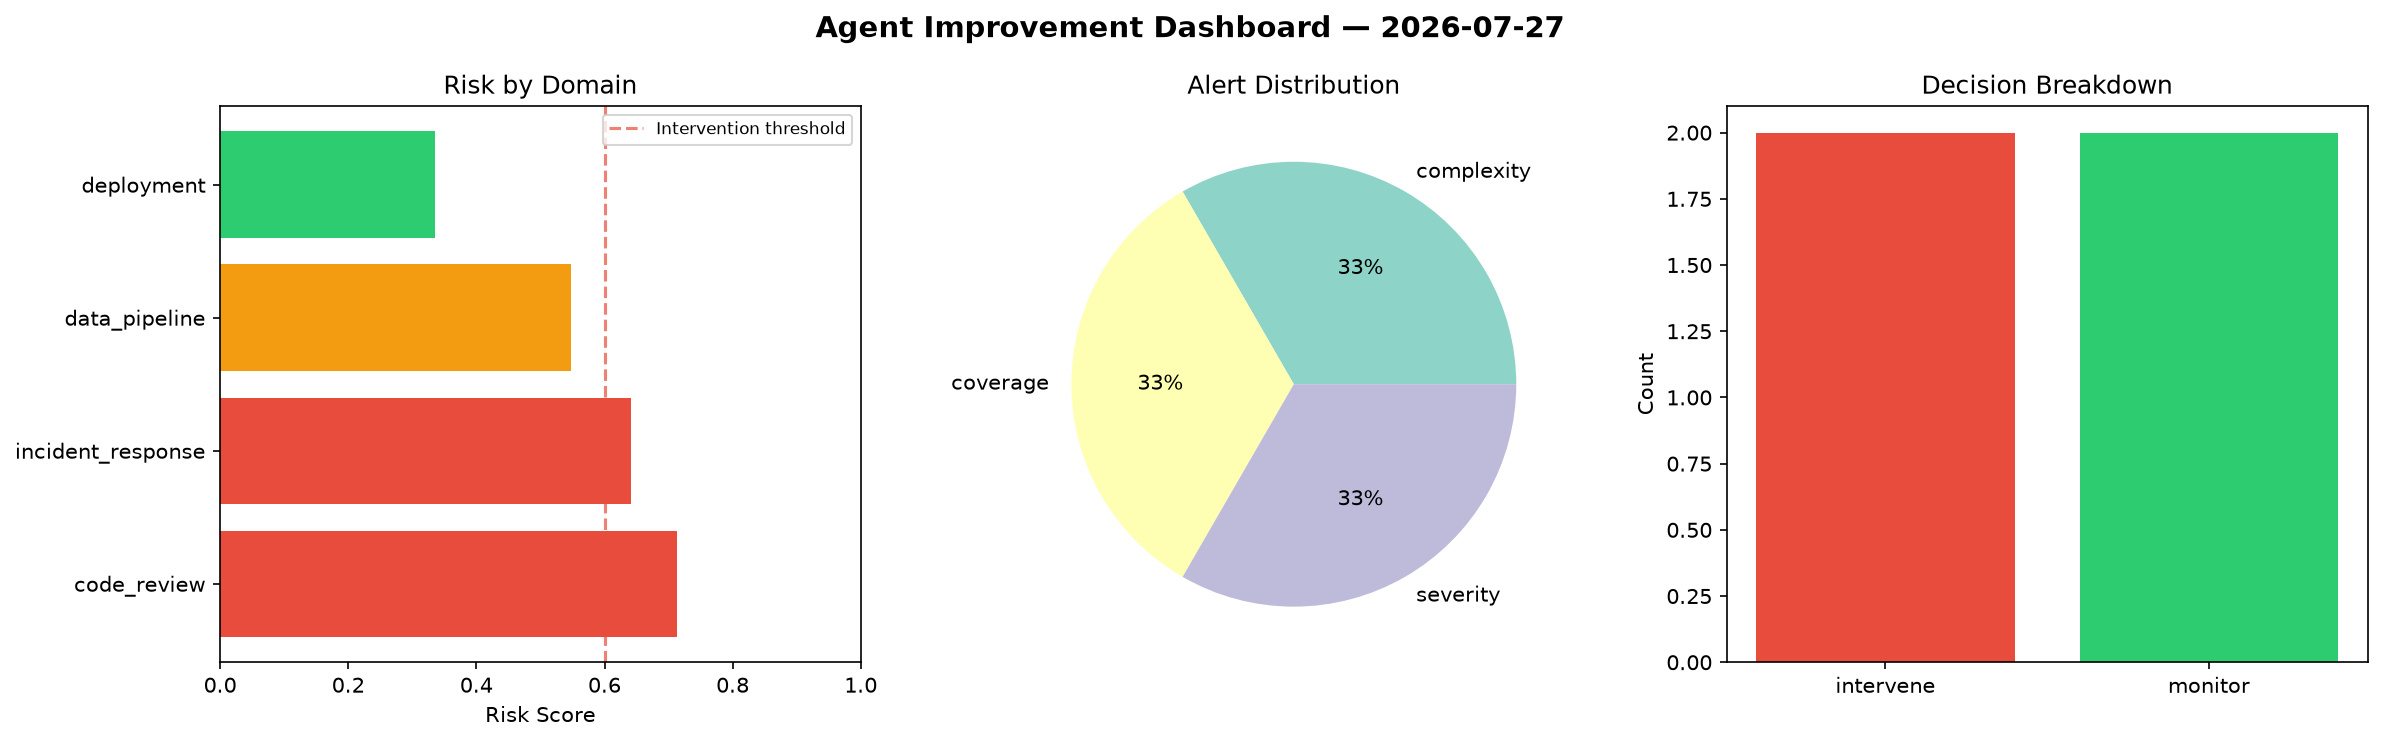
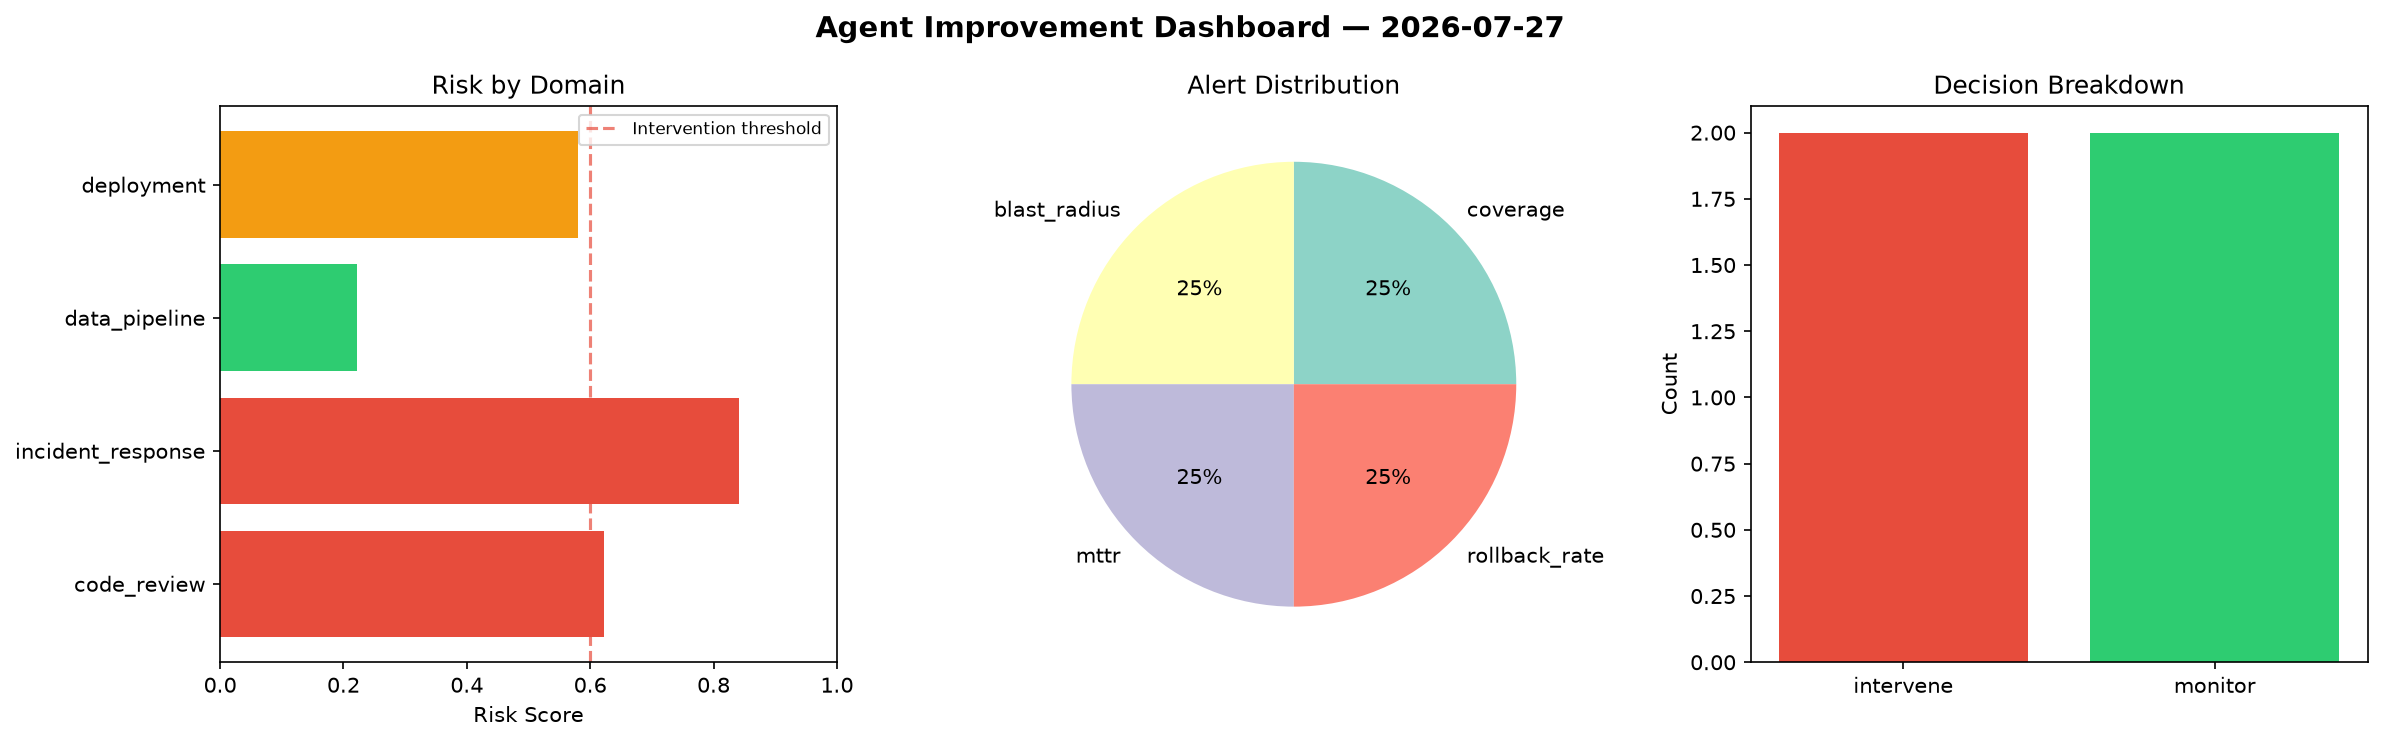
agent-improvement: daily cycle 2026-07-27T11:38

diff --git a/logs/2026-07-27.md b/logs/2026-07-27.md
@@ -1,6 +1,6 @@
 # Agent Improvement Report — 2026-07-27
 
-**Cycle ID:** `2cabf618` | **Avg Risk:** 0.5594 | **Interventions:** 2/4
+**Cycle ID:** `a64bd3b0` | **Avg Risk:** 0.5669 | **Interventions:** 2/4
 
 ![Dashboard](2026-07-27_dashboard.png)
 
@@ -10,18 +10,18 @@
 
 | Domain | Risk Score | Decision | Alerts |
 |--------|-----------|----------|--------|
-| code_review | 0.7136 | intervene | complexity, coverage |
-| incident_response | 0.641 | intervene | severity |
-| data_pipeline | 0.548 | monitor | none |
-| deployment | 0.3348 | monitor | none |
+| code_review | 0.6227 | intervene | coverage |
+| incident_response | 0.8417 | intervene | blast_radius, mttr |
+| data_pipeline | 0.2226 | monitor | none |
+| deployment | 0.5807 | monitor | rollback_rate |
 
 ## Delta vs Yesterday
 
 | Domain | Today | Yesterday | Change |
 |--------|-------|-----------|--------|
-| code_review | 0.7136 | 0.7913 | 📉 -9.8% |
-| incident_response | 0.641 | 0.5887 | 📈 8.9% |
-| data_pipeline | 0.548 | 0.3528 | 📈 55.3% |
-| deployment | 0.3348 | 0.8823 | 📉 -62.1% |
+| code_review | 0.6227 | 0.7913 | 📉 -21.3% |
+| incident_response | 0.8417 | 0.5887 | 📈 43.0% |
+| data_pipeline | 0.2226 | 0.3528 | 📉 -36.9% |
+| deployment | 0.5807 | 0.8823 | 📉 -34.2% |
 
 **Refinement:** `{'adjustment': 'maintain', 'trend': 'improving', 'window': 4}`
